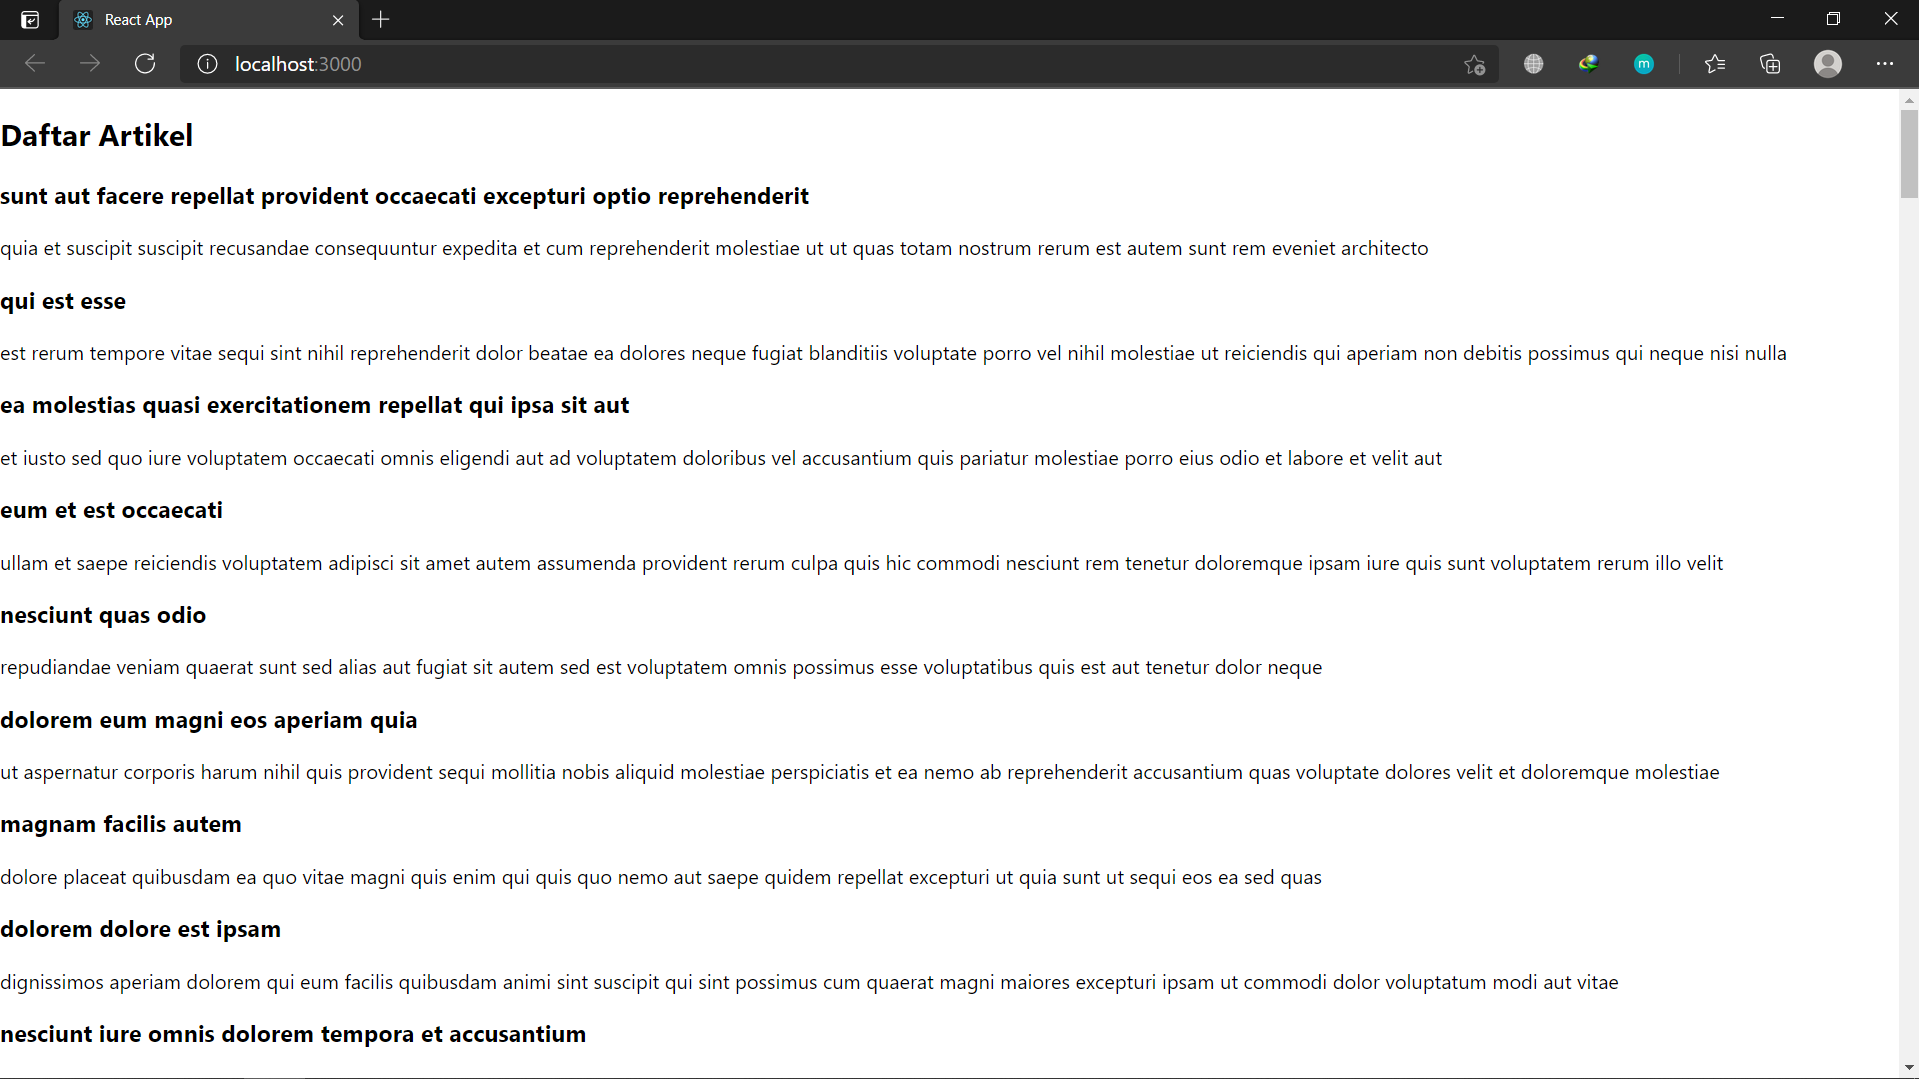
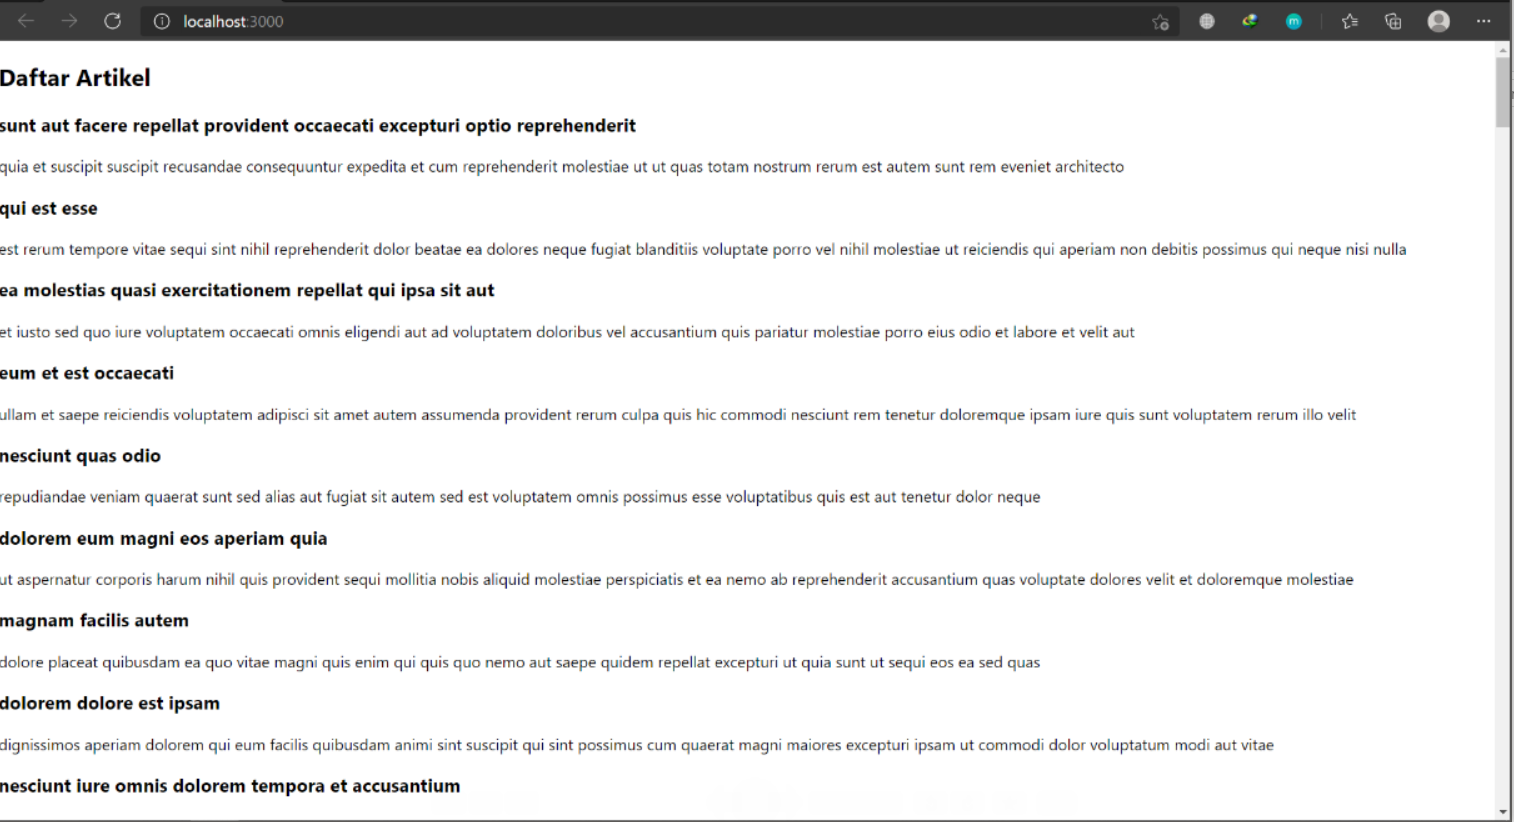
05 API

Changed region(s): [[0.0, 0.0, 1.0, 1.0], [0.0, 0.8516, 0.8382, 0.9732]]

diff --git a/docs/05_API/05.md b/docs/05_API/05.md
@@ -9,7 +9,7 @@
 
 1. Praktikum 1 : Menampilkan data dari API
 
-![contoh gambar](img/1.Png)
+![contoh gambar](img/1.png)
 
 src : [Link Praktikum 1](../../src/05_API/praktikum1/index.js)
 
